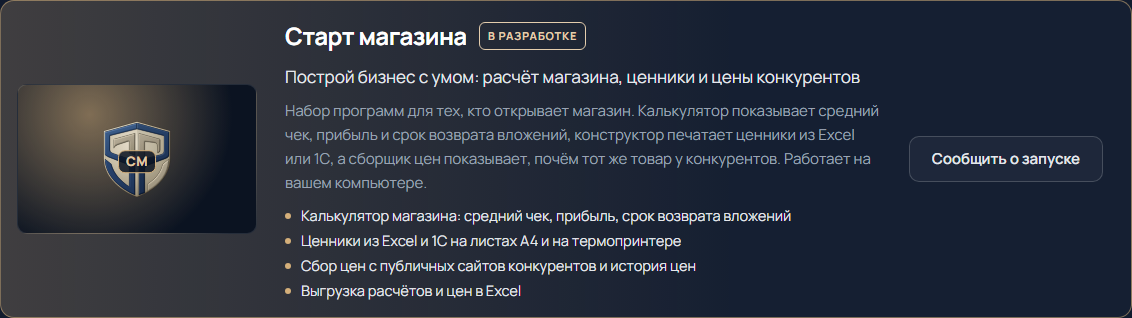
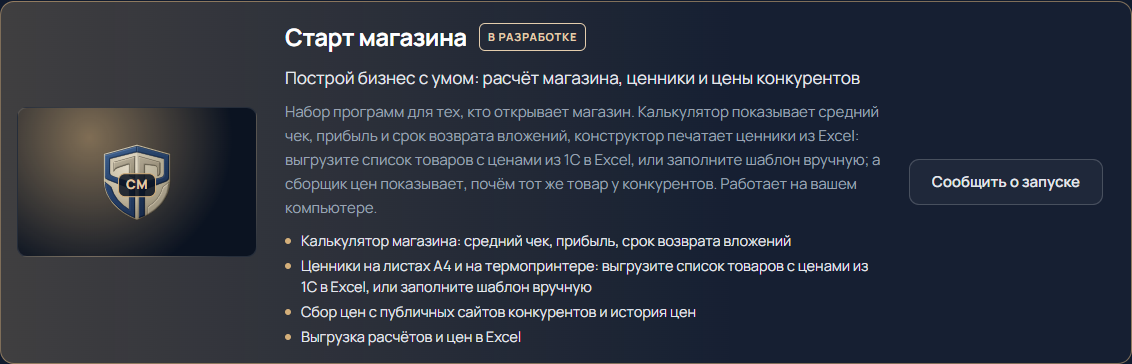
Витрина: фраза про выгрузку из 1С, Manrope локально без Google Fonts

diff --git a/index.html b/index.html
@@ -14,10 +14,39 @@
 <meta property="og:image" content="https://romshil6973-droid.github.io/sistema-poryadka/assets/og-image.png" />
 <meta name="theme-color" content="#0B1321" />
 <link rel="icon" href="assets/favicon.svg" type="image/svg+xml" />
-<link rel="preconnect" href="https://fonts.googleapis.com" />
-<link rel="preconnect" href="https://fonts.gstatic.com" crossorigin />
-<link rel="stylesheet" href="https://fonts.googleapis.com/css2?family=Manrope:wght@400;500;600;700;800&display=swap" />
 <style>
+  @font-face {
+    font-family: "Manrope";
+    font-style: normal;
+    font-weight: 400 800;
+    font-display: swap;
+    src: url("assets/fonts/manrope-cyrillic-ext.woff2") format("woff2");
+    unicode-range: U+0460-052F, U+1C80-1C8A, U+20B4, U+2DE0-2DFF, U+A640-A69F, U+FE2E-FE2F;
+  }
+  @font-face {
+    font-family: "Manrope";
+    font-style: normal;
+    font-weight: 400 800;
+    font-display: swap;
+    src: url("assets/fonts/manrope-cyrillic.woff2") format("woff2");
+    unicode-range: U+0301, U+0400-045F, U+0490-0491, U+04B0-04B1, U+2116;
+  }
+  @font-face {
+    font-family: "Manrope";
+    font-style: normal;
+    font-weight: 400 800;
+    font-display: swap;
+    src: url("assets/fonts/manrope-latin-ext.woff2") format("woff2");
+    unicode-range: U+0100-02BA, U+02BD-02C5, U+02C7-02CC, U+02CE-02D7, U+02DD-02FF, U+0304, U+0308, U+0329, U+1D00-1DBF, U+1E00-1E9F, U+1EF2-1EFF, U+2020, U+20A0-20AB, U+20AD-20C4, U+2113, U+2C60-2C7F, U+A720-A7FF;
+  }
+  @font-face {
+    font-family: "Manrope";
+    font-style: normal;
+    font-weight: 400 800;
+    font-display: swap;
+    src: url("assets/fonts/manrope-latin.woff2") format("woff2");
+    unicode-range: U+0000-00FF, U+0131, U+0152-0153, U+02BB-02BC, U+02C6, U+02DA, U+02DC, U+0304, U+0308, U+0329, U+2000-206F, U+20AC, U+2122, U+2191, U+2193, U+2212, U+2215, U+FEFF, U+FFFD;
+  }
   /* Тёмная стратегическая тема из брендбука: одна тема сознательно.
      Сетка: узкая колонка текста + широкие «рабочие поверхности» с моделью компании. */
   :root {

diff --git a/CATALOG.md b/CATALOG.md
@@ -84,7 +84,7 @@
 | `action.href` | для `available`; для `soon` — если кнопка ведёт куда-то | Бесплатный — страница релизов (`…/releases/latest`), не файл конкретной старой версии. Платный — якорь вроде `#offer` или `mailto:`. Для `soon` — только полный `mailto:R.SH.69.73@yandex.ru?subject=…`: тему письма закодируй в URL. Другой адрес, телефон и мессенджеры не ставь. Нет `action` — кнопка неактивна, текст «Скоро». |
 | `action.label` | для `soon`, если есть `action` | Текст кнопки. Для заявки о запуске: «Сообщить о запуске». У доступного продукта по умолчанию «Скачать бесплатно» или «Запросить». |
 | `description` | нет | До 360 знаков: два-три коротких предложения. |
-| `features` | нет | Массив из 1–4 строк «что умеет». Каждая строка до 80 знаков. На баннере — маркированный список. Нет массива — список не рисуется. |
+| `features` | нет | Массив из 1–4 строк «что умеет». Каждая строка до 120 знаков. На баннере — маркированный список. Нет массива — список не рисуется. |
 | `markLabel` | нет | 2–4 символа поверх знака, например `ЗС` или `KPI`. |
 | `accent` | нет | Цвет акцента из палитры сайта: `#d4af7a`, `#e2c292`, `#355c8a`, `#6f95cf`, `#c7ccd3`, `#2f7d5b`. |
 | `meta` | нет | Системные требования, размер — мелко под кнопкой рядом с ценой. |
